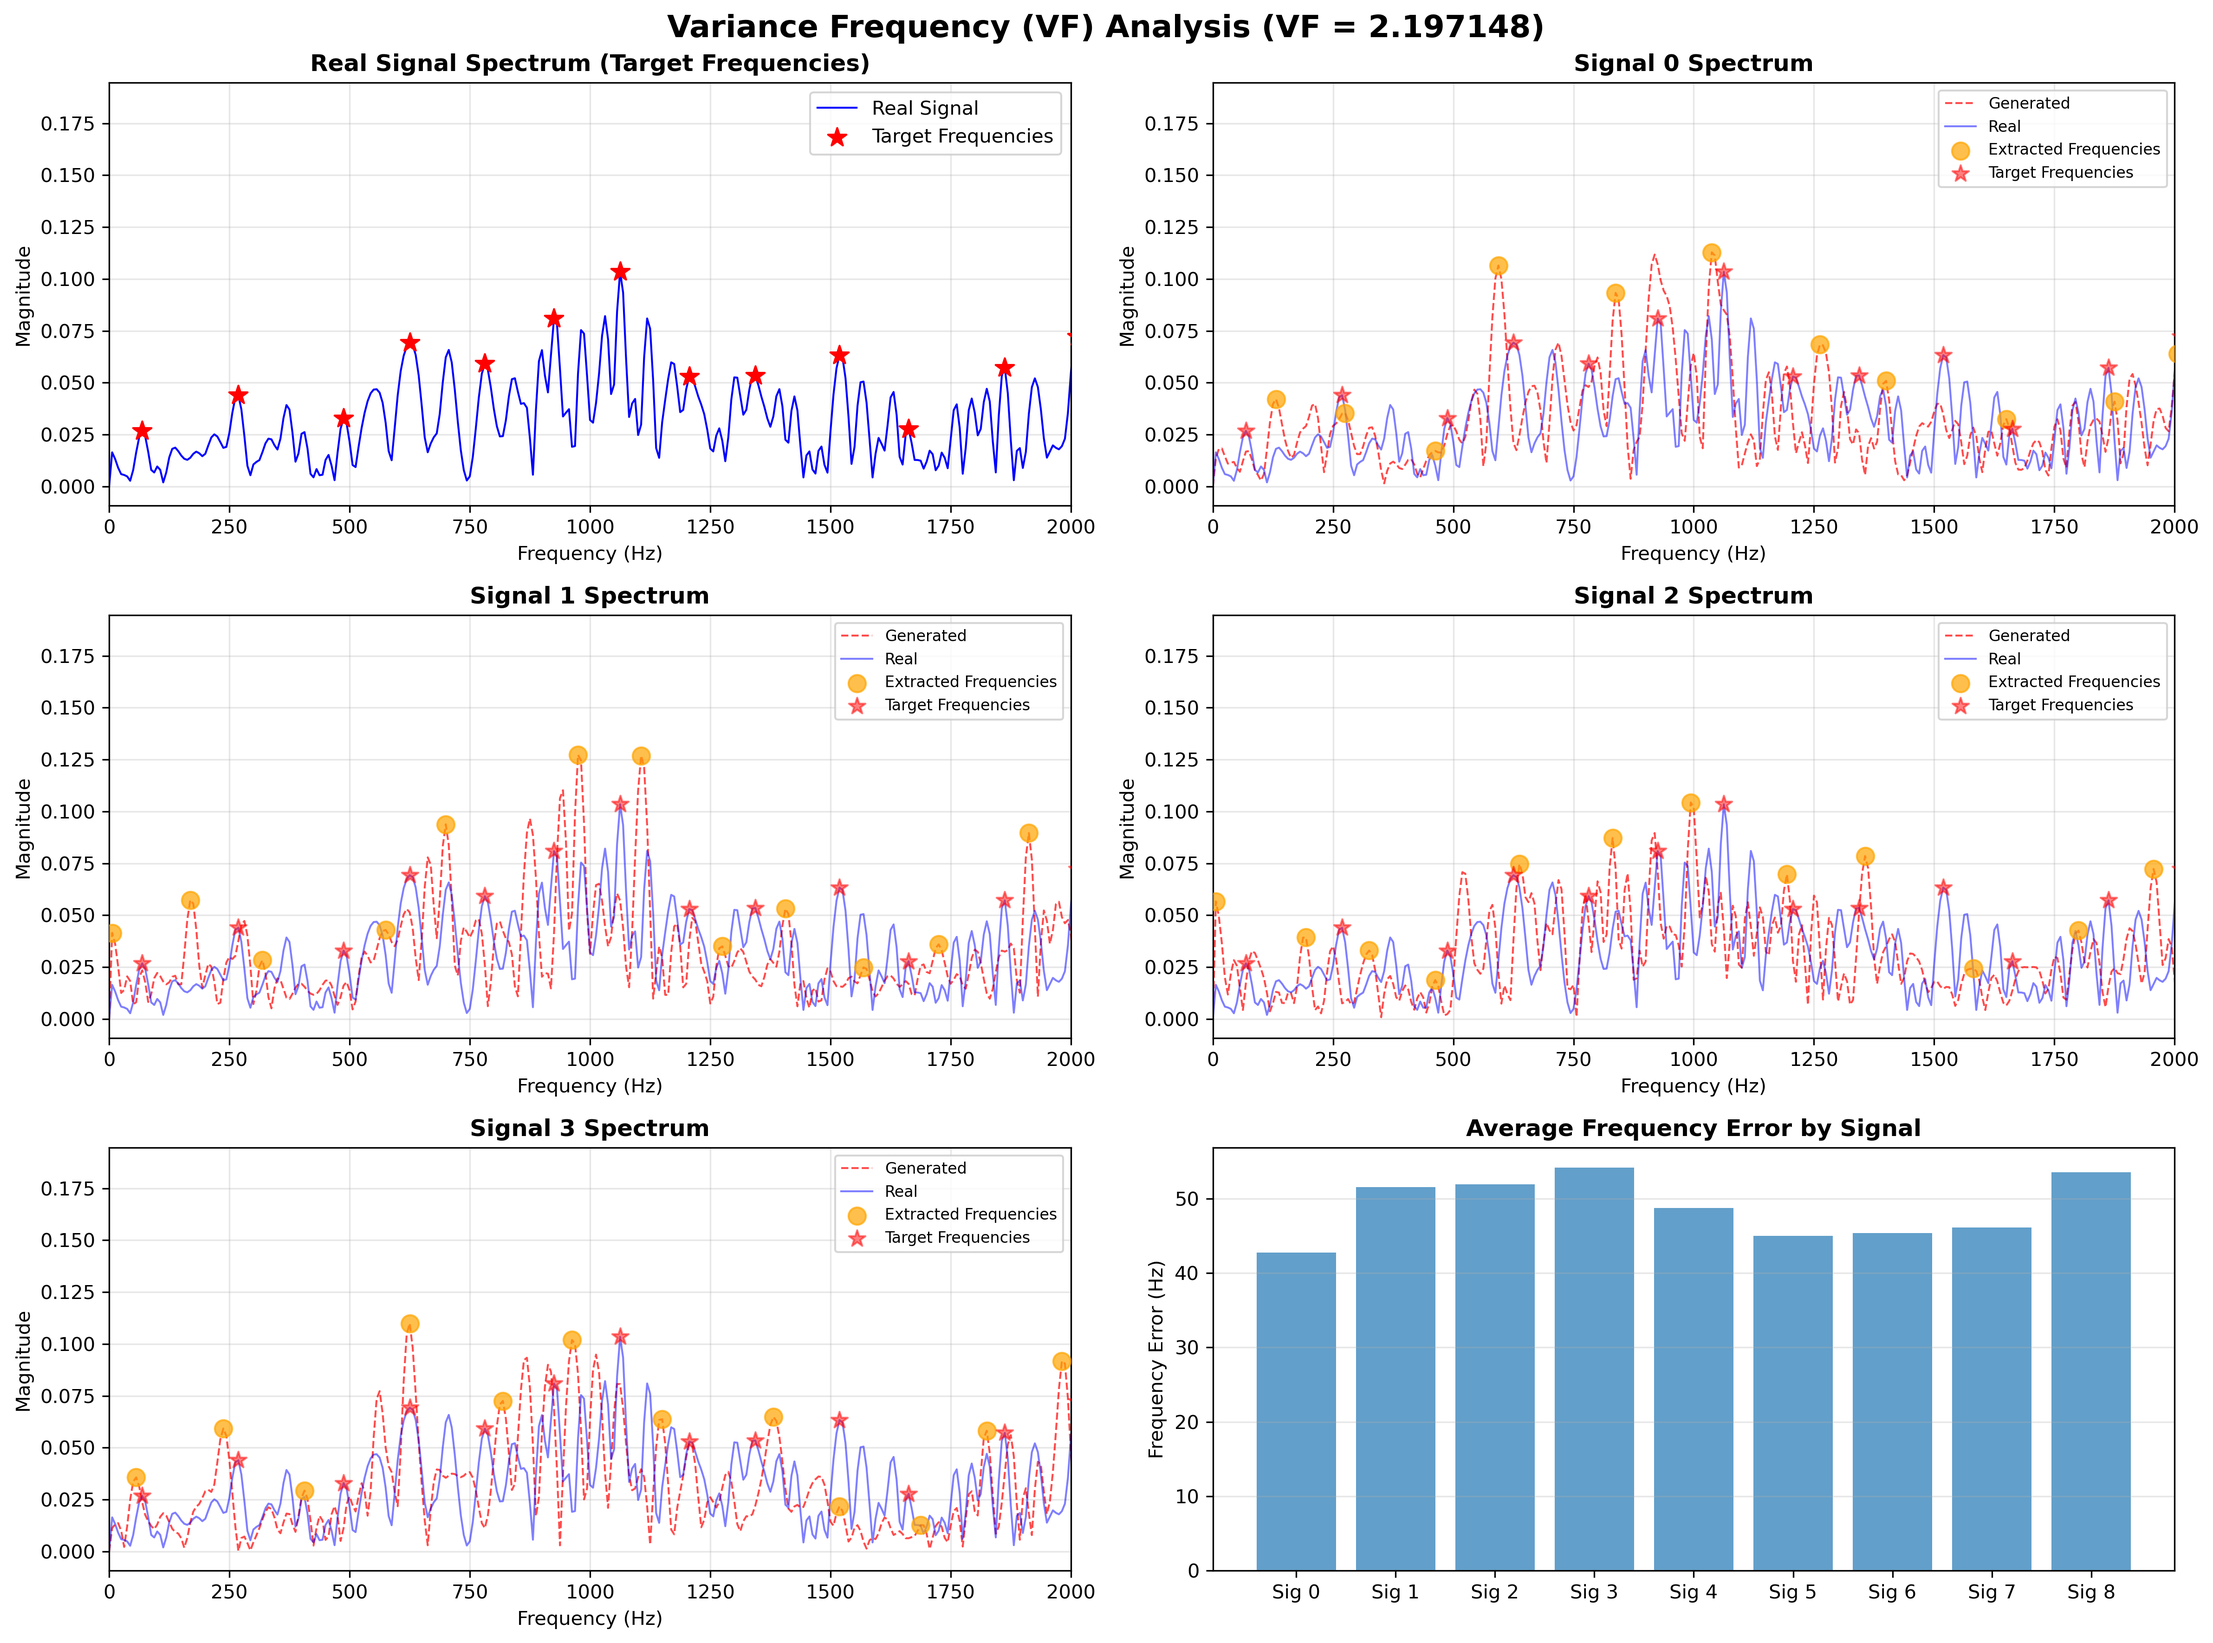
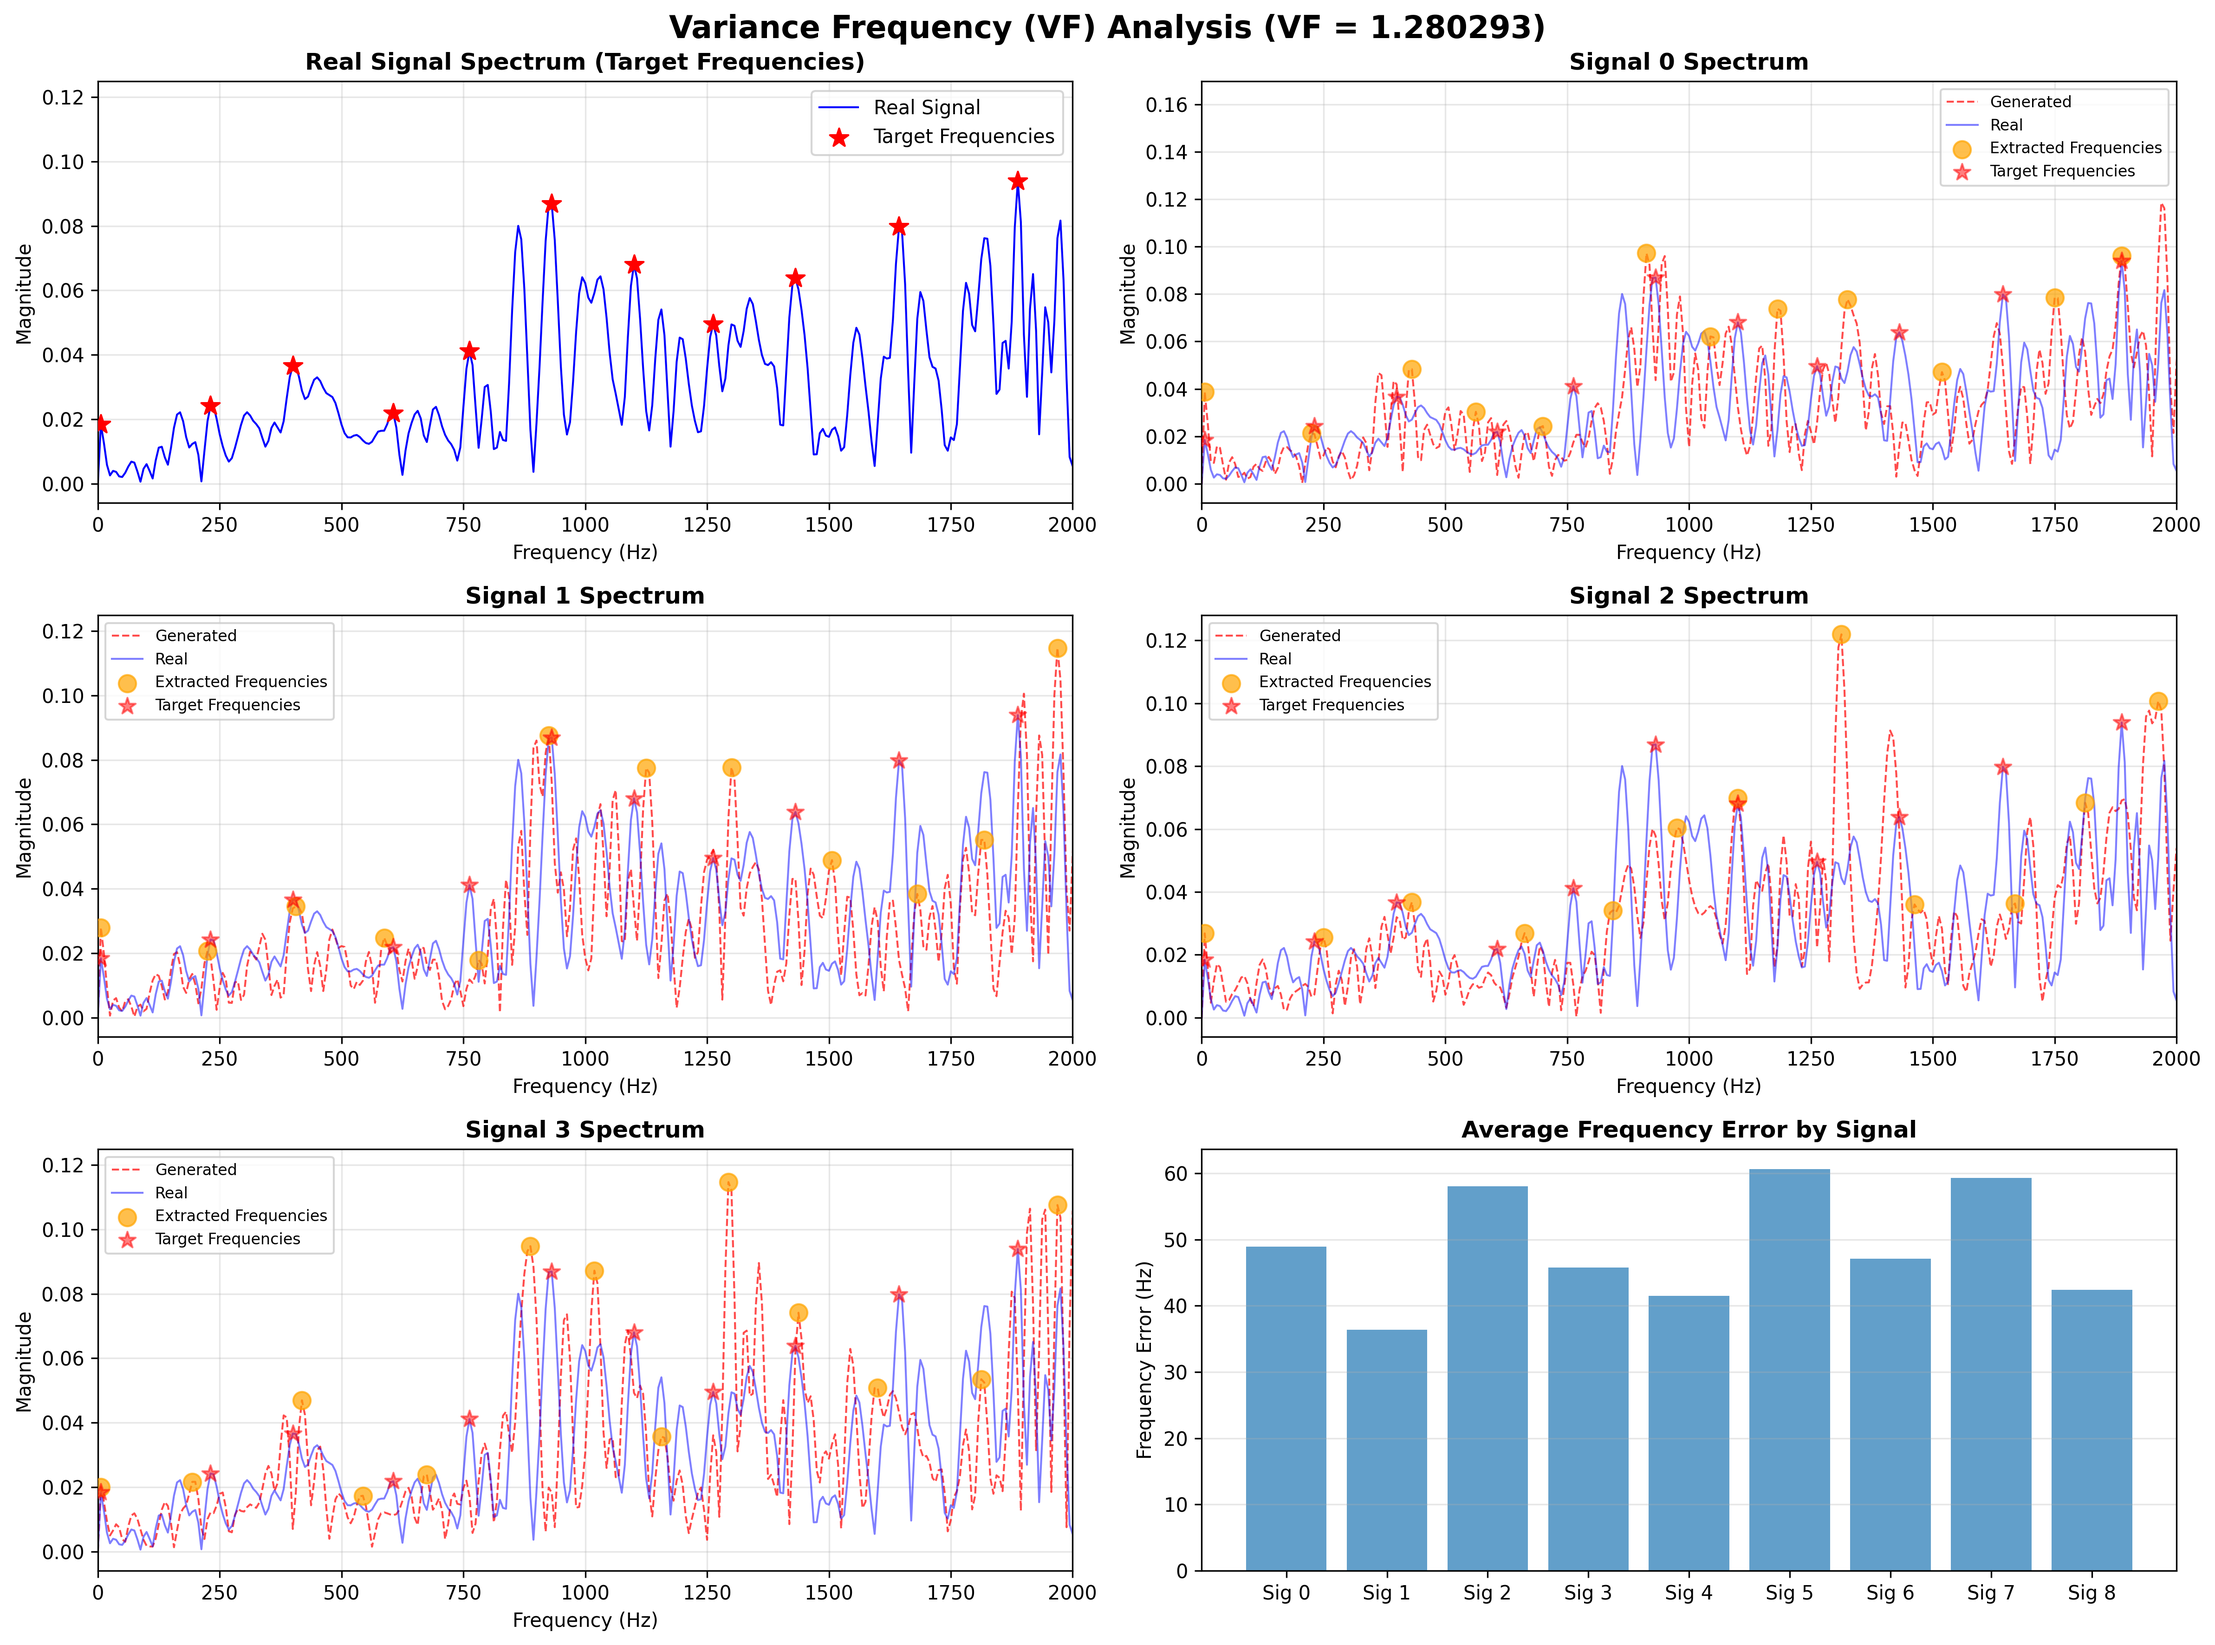
修改推理部分

diff --git a/infer_1d_vibration.py b/infer_1d_vibration.py
@@ -45,11 +45,13 @@ def build_model_and_diffusion(seq_length: int, channels: int, cond_dim: int = 2)
     - cond_dim: 条件维度，2 表示 RPM 和 Load，0 表示无条件生成
     """
     model = PhysiNet(
-        dim=64,
+        dim=128,                      # 与训练一致 (64 -> 128)
         dim_mults=(1, 2, 4, 8),
         channels=channels,
-        cond_dim=cond_dim,  # 支持条件生成：RPM 和 Load
-        dropout=0.0,
+        cond_dim=cond_dim,            # 支持条件生成：RPM 和 Load
+        dropout=0.1,                  # 与训练一致，eval()模式下自动禁用
+        attn_dim_head=64,             # 与训练一致 (32 -> 64)
+        attn_heads=8,                 # 与训练一致 (4 -> 8)
     )
 
     diffusion = GaussianDiffusion1D(
@@ -74,7 +76,7 @@ def load_trained_diffusion_from_checkpoint(
     """
     device = next(diffusion.parameters()).device
 
-    data = torch.load(ckpt_path, map_location=device, weights_only=True)
+    data = torch.load(ckpt_path, map_location=device, weights_only=False)
 
     diffusion.load_state_dict(data["model"])
     diffusion.eval()
@@ -87,48 +89,52 @@ def load_normalization_params_from_checkpoint(ckpt_path: str) -> tuple[float, fl
     如果检查点中没有保存，则返回 None。
     """
     try:
-        data = torch.load(ckpt_path, map_location='cpu', weights_only=True)
+        data = torch.load(ckpt_path, map_location='cpu', weights_only=False)
         if 'normalization_params' in data:
             params = data['normalization_params']
-            return params.get('signal_min'), params.get('signal_max')
+            signal_min = params.get('signal_min')
+            signal_max = params.get('signal_max')
+            if signal_min is not None and signal_max is not None:
+                print(f"Loaded normalization params from checkpoint: min={signal_min:.4f}, max={signal_max:.4f}")
+                return signal_min, signal_max
     except Exception as e:
         print(f"Warning: Could not load normalization params from checkpoint: {e}")
     return None, None
 
 
-def compute_signal_min_max_from_dataset(data_path: str) -> tuple[float, float]:
-    """
-    从训练数据集路径加载数据，计算原始振动信号的全局 min / max，
-    以便对生成样本做反归一化，使频谱分析与训练阶段保持一致。
-    
-    参数:
-    - data_path: 训练数据集的路径（包含 .mat 文件的目录）
-    """
-    
-    mat_files = glob.glob(os.path.join(data_path, '*.mat'))
-    if len(mat_files) == 0:
-        raise ValueError(f"No .mat files found in {data_path}")
-    
-    all_signals = []
-    for mat_file in sorted(mat_files):
-        try:
-            data = loadmat(mat_file)
-            # 提取 y_values 的第一列（与训练代码一致）
-            signal = data['Signal']['y_values'][0, 0]['values'].item()[:, 0]
-            all_signals.append(signal)
-        except Exception as e:
-            print(f"Warning: Failed to load {mat_file}: {e}")
-            continue
-    
-    if len(all_signals) == 0:
-        raise ValueError("No valid signals loaded from .mat files")
-    
-    # 计算全局 min/max
-    all_signals_array = np.concatenate(all_signals)
-    signal_min = float(all_signals_array.min())
-    signal_max = float(all_signals_array.max())
-    
-    return signal_min, signal_max
+# def compute_signal_min_max_from_dataset(data_path: str) -> tuple[float, float]:
+#     """
+#     从训练数据集路径加载数据，计算原始振动信号的全局 min / max，
+#     以便对生成样本做反归一化，使频谱分析与训练阶段保持一致。
+#
+#     参数:
+#     - data_path: 训练数据集的路径（包含 .mat 文件的目录）
+#     """
+#
+#     mat_files = glob.glob(os.path.join(data_path, '*.mat'))
+#     if len(mat_files) == 0:
+#         raise ValueError(f"No .mat files found in {data_path}")
+#
+#     all_signals = []
+#     for mat_file in sorted(mat_files):
+#         try:
+#             data = loadmat(mat_file)
+#             # 提取 y_values 的第一列（与训练代码一致）
+#             signal = data['Signal']['y_values'][0, 0]['values'].item()[:, 0]
+#             all_signals.append(signal)
+#         except Exception as e:
+#             print(f"Warning: Failed to load {mat_file}: {e}")
+#             continue
+#
+#     if len(all_signals) == 0:
+#         raise ValueError("No valid signals loaded from .mat files")
+#
+#     # 计算全局 min/max
+#     all_signals_array = np.concatenate(all_signals)
+#     signal_min = float(all_signals_array.min())
+#     signal_max = float(all_signals_array.max())
+#
+#     return signal_min, signal_max
 
 
 def main():
@@ -137,12 +143,12 @@ def main():
     CHANNELS = 1
     COND_DIM = 2  # RPM 和 Load 两个条件
     RESULTS_FOLDER = "./results_vibration"
-    # 训练数据集路径，用于获取归一化参数（如果检查点中没有保存）
-    TRAIN_DATA_PATH = r'D:\山东科技大学轴承齿轮数据集\轴承数据集\speed'
+    # # 训练数据集路径，用于获取归一化参数（如果检查点中没有保存）
+    # TRAIN_DATA_PATH = r'D:\speedLoad'
     
     # 条件生成的目标值（可以修改）
     TARGET_RPM = 2000.0
-    TARGET_LOAD = 20.0  # 可选值: 0, 20, 40, 60
+    TARGET_LOAD = 40.0  # 可选值: 0, 20, 40, 60
 
     device = torch.device("cuda" if torch.cuda.is_available() else "cpu")
     print(f"Using device for inference: {device}")
@@ -161,9 +167,9 @@ def main():
     # 4) 获取归一化参数，用于反归一化
     # 首先尝试从检查点加载，如果失败则从训练数据集计算
     signal_min, signal_max = load_normalization_params_from_checkpoint(ckpt_path)
-    if signal_min is None or signal_max is None:
-        print("Normalization params not found in checkpoint, computing from training dataset...")
-        signal_min, signal_max = compute_signal_min_max_from_dataset(TRAIN_DATA_PATH)
+    # if signal_min is None or signal_max is None:
+    #     print("Normalization params not found in checkpoint, computing from training dataset...")
+    #     signal_min, signal_max = compute_signal_min_max_from_dataset(TRAIN_DATA_PATH)
     print(f"Signal normalization params: min={signal_min:.4f}, max={signal_max:.4f}")
 
     # 5) 使用训练好的扩散模型进行条件采样生成信号

diff --git a/analyze_vf_metric.py b/analyze_vf_metric.py
@@ -12,7 +12,7 @@ from scipy.signal import find_peaks
 # ===== 配置参数 =====
 REAL_DATA_PATH = r'D:\NC 2000 40.mat'
 REAL_SIGNAL_NAME = 'Bearing_Acc_X'
-GENERATED_DIR = './generated_samples'
+GENERATED_DIR = './generated_samples_infer'
 FS = 25600  # Hz
 START_IDX = 1000 # 确保从稳态区域开始取样 (5000之后)
 END_IDX = 5000
@@ -247,7 +247,7 @@ if __name__ == '__main__':
     generated_indices = []
     
     for i in range(9):
-        file_path = os.path.join(GENERATED_DIR, f'generated_signal_{i}.npy')
+        file_path = os.path.join(GENERATED_DIR, f'infer_signal_{i}.npy')
         if os.path.exists(file_path):
             signal = np.load(file_path).astype(np.float64)
             generated_signals.append(signal)

diff --git a/denoising_diffusion_pytorch/denoising_diffusion_pytorch_1d.py b/denoising_diffusion_pytorch/denoising_diffusion_pytorch_1d.py
@@ -1447,7 +1447,12 @@ class Trainer1D(object):
             'opt': self.opt.state_dict(),
             'ema': self.ema.state_dict(),
             'scaler': self.accelerator.scaler.state_dict() if exists(self.accelerator.scaler) else None,
-            'version': __version__
+            'version': __version__,
+            # 保存归一化参数，用于推理时反归一化
+            'normalization_params': {
+                'signal_min': self.denorm_min,
+                'signal_max': self.denorm_max,
+            }
         }
 
         torch.save(data, str(self.results_folder / f'model-{milestone}.pt'))

diff --git a/train_1d_vibration.py b/train_1d_vibration.py
@@ -267,6 +267,9 @@ if __name__ == '__main__':
         save_and_sample_every = 1500, # 每1500步保存一次，共20个checkpoint
         num_samples = 16,
         results_folder = './results_vibration',
+        # 传入归一化参数，会保存到检查点中供推理时使用
+        denorm_min = dataset.signal_min,
+        denorm_max = dataset.signal_max,
     )
 
     print("Starting training on real SDUST dataset...")
